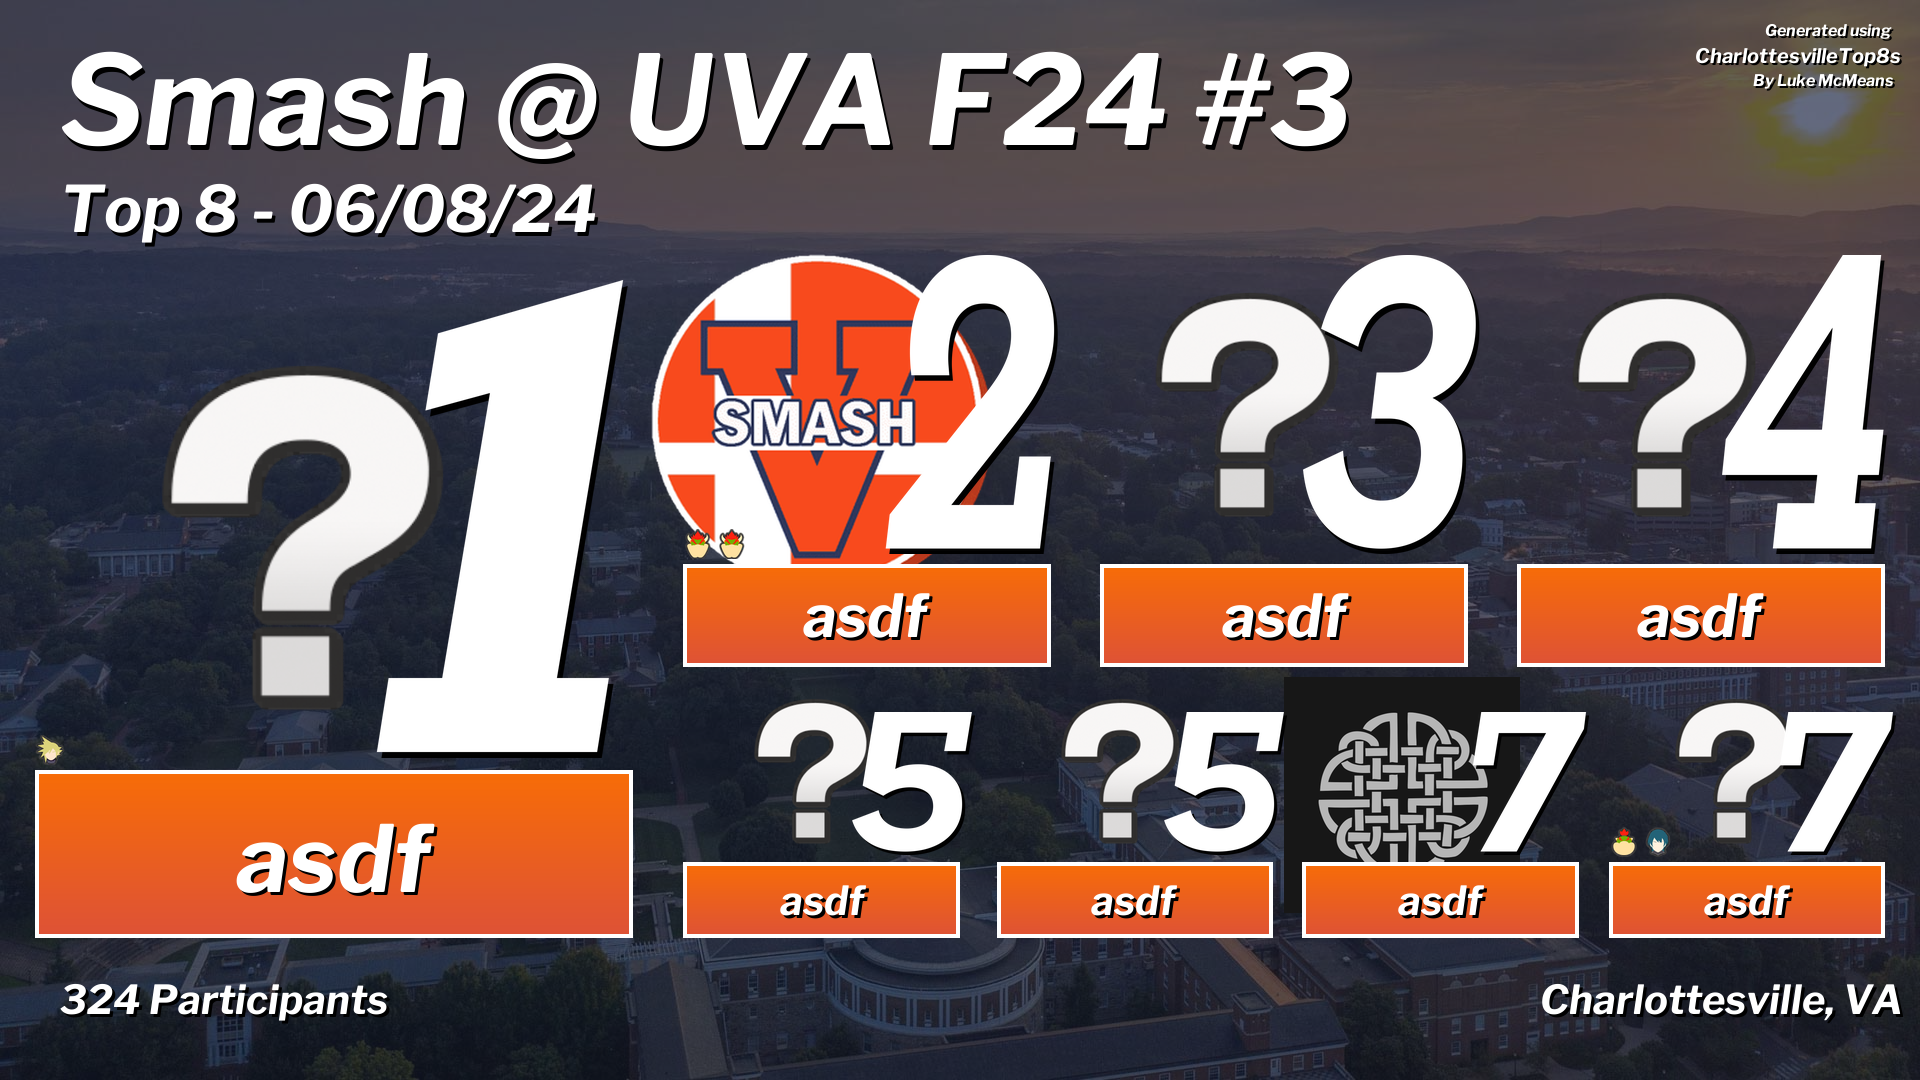
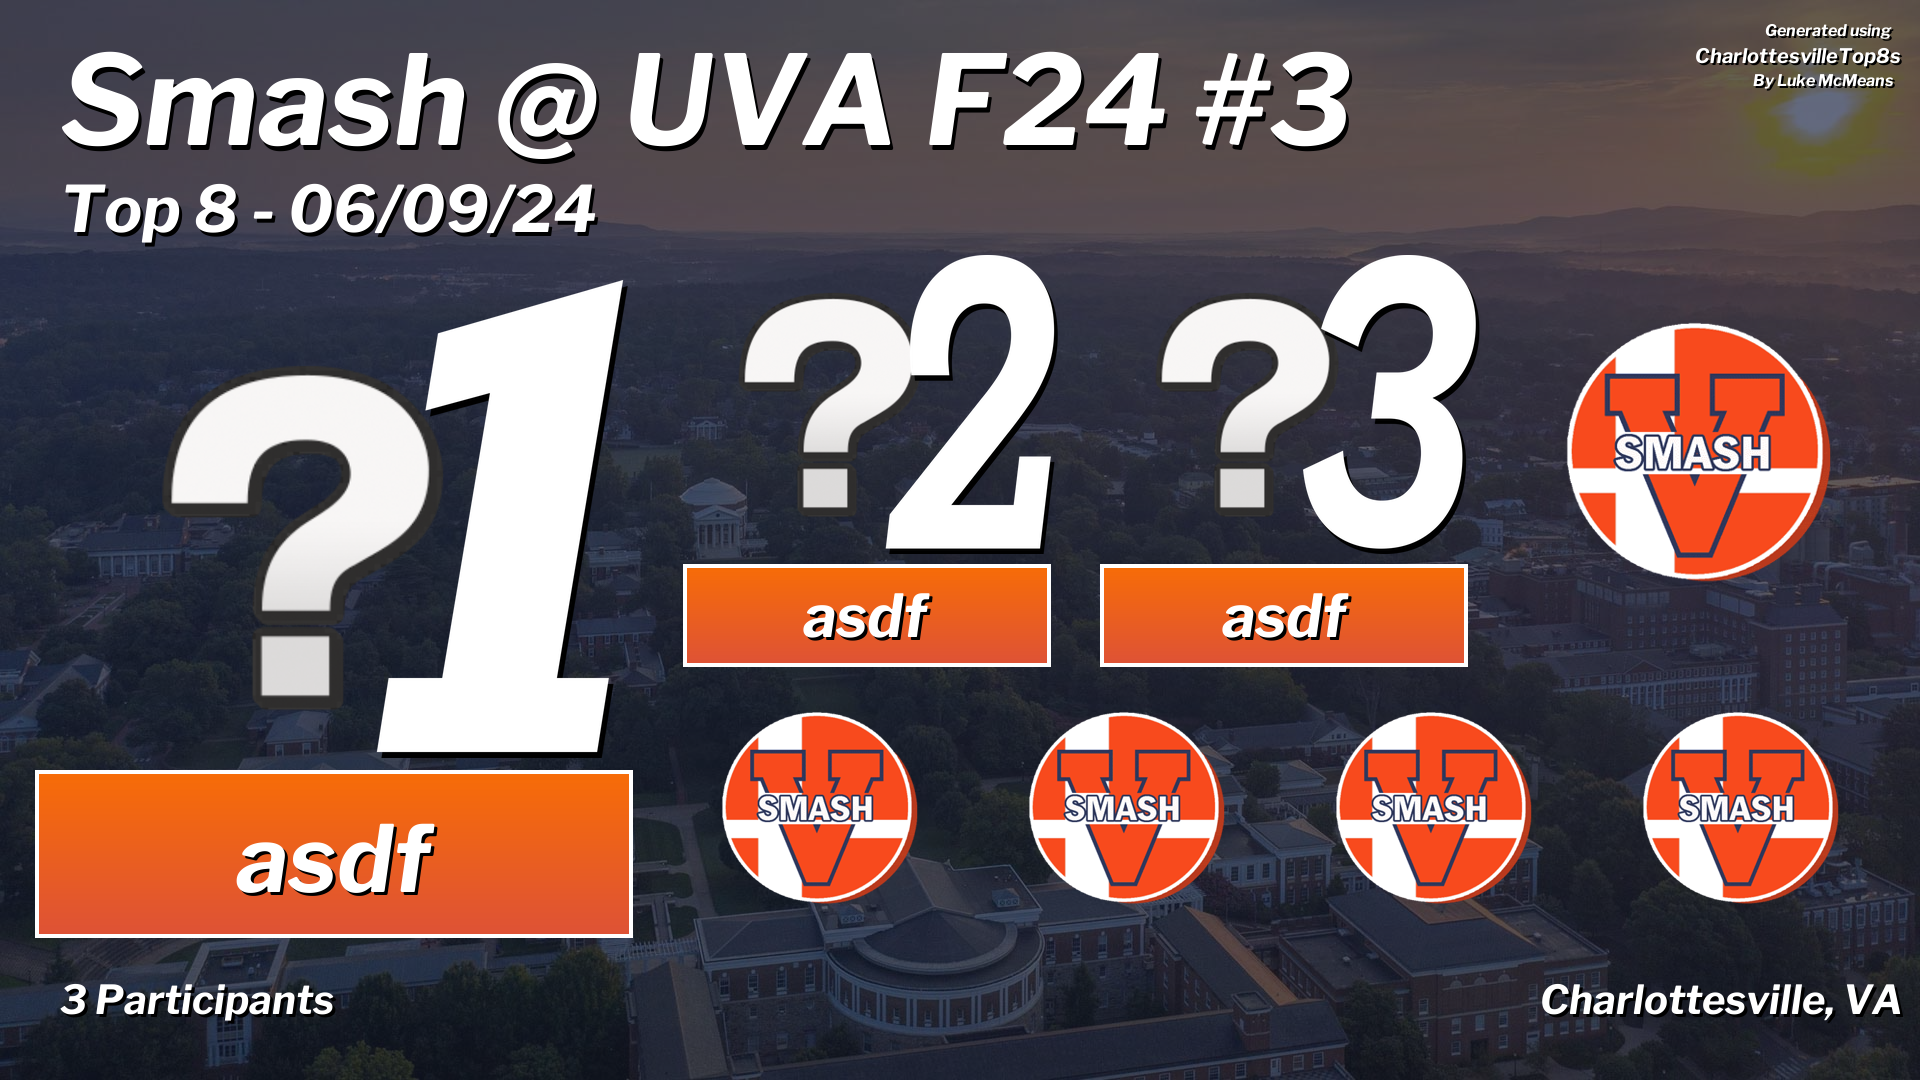
Added result to a new page, fixed error with particpants as decimals

diff --git a/templates/mysite/homepage.html b/templates/mysite/homepage.html
@@ -2,6 +2,9 @@
 <!DOCTYPE html>
 
 <link rel="stylesheet" href="{% static 'style.css' %}">
+<meta charset="UTF-8">
+<meta name="viewport" content="width=device-width, initial-scale=1.0">
+<title>Charlottesville Top8s</title>
 <link rel="icon" href="{% static 'siteicon.ico' %}" type="image/x-icon">
 
 <img style="max-width: 800px; width: 100%; height: auto;" src="{% static 'top8sLogo.png' %}">
@@ -32,7 +35,7 @@
             </div>
             <label>What # Smash@UVA is this (for the semester)?</label><br>
         </div>
-        <input type="number" name="event_number" label="Event Number" id="event_number" required>
+        <input type="number" name="event_number" label="Event Number" id="event_number" step=".5" required>
         <br>
         <label>Event Date:</label><br>
         <input type="date" name="event_date" id="event_date" required><br>
@@ -129,16 +132,11 @@
 </form>
 
 <div class="row" style="width: 90%; margin-left: 5%;">
-    {% if graphic %}
-        <h2>Result</h2>
-        <img style="width: 100%; height: auto;" src="{% static 'graphic.png' %}">    
-    {% else %}
-        <h2>Examples</h2>
-        <div style="display: flex;">
-            <img style="width: 50%; height: auto; margin-right: 10px;" src="{% static 'sampleUVA.png' %}">
-            <img style="width: 50%; height: auto;" src="{% static 'sampleCUT.png' %}">
-        </div>
-    {% endif %}
+    <h2>Examples</h2>
+    <div style="display: flex;">
+        <img style="width: 50%; height: auto; margin-right: 10px;" src="{% static 'sampleUVA.png' %}">
+        <img style="width: 50%; height: auto;" src="{% static 'sampleCUT.png' %}">
+    </div>
 </div>
 
 <footer class="text-muted">
@@ -148,7 +146,6 @@
     Inspired by <a href="https://www.top8er.com/" target="_blank">top8er.com</a> by @Riokaru and @Elenriqu3
     <br><br>
     Built and maintained using Django, Pillow, and Heroku. Images and assests from Super Smash Bros. Ultimate belong to Nintendo and Sora Ltd.
-    
 </footer>
 
 <script>
@@ -248,7 +245,9 @@
     }
 
     function checkUnderEight(){
-        const participants = Number(document.getElementById('participants').value)
+        const number = document.getElementById('participants')
+        number.value = parseInt(number.value)
+        const participants = Number(number.value)
         const warning = document.getElementById('under_eight')
         if(participants <= 0){
             message = `
@@ -265,7 +264,7 @@
         } else {
             message = ``;
         }
-        warning.innnerHTML = message;
+        warning.innerHTML = message;
         for(var i = 1; i < 9; i++){
             const playerText = document.getElementById(`player${i}_name`);
             const playerHandle = document.getElementById(`player${i}_handle`)

diff --git a/templates/mysite/result.html b/templates/mysite/result.html
@@ -1,0 +1,29 @@
+{% load static %}
+<!DOCTYPE html>
+
+<link rel="stylesheet" href="{% static 'style.css' %}">
+<meta charset="UTF-8">
+<meta name="viewport" content="width=device-width, initial-scale=1.0">
+<title>{{ tab_title }}</title>
+<link rel="icon" href="{% static 'siteicon.ico' %}" type="image/x-icon">
+
+<img style="max-width: 800px; width: 100%; height: auto;" src="{% static 'top8sLogo.png' %}">
+
+<div class="result"> 
+    <div style="width: 90%; margin-left: 5%;">
+        <h2>Result</h2>
+        <img style="width: 100%; height: auto;" src="{% static 'graphic.png' %}">
+        <br><br>
+        <a href="{% url 'homepage' %}" style="font-size: 20px;">Return to Homepage</a>
+        <br><br>
+    </div>
+</div>
+
+<footer class="text-muted">
+    <br>
+    Created by Luke McMeans (2024)
+    <br><br>
+    Inspired by <a href="https://www.top8er.com/" target="_blank">top8er.com</a> by @Riokaru and @Elenriqu3
+    <br><br>
+    Built and maintained using Django, Pillow, and Heroku. Images and assests from Super Smash Bros. Ultimate belong to Nintendo and Sora Ltd.
+</footer>

diff --git a/staticfiles/style.css b/staticfiles/style.css
@@ -1,6 +1,6 @@
 @import url('https://fonts.googleapis.com/css2?family=Zilla+Slab:ital,wght@0,300;0,400;0,500;0,600;0,700;1,300;1,400;1,500;1,600;1,700&display=swap');
 
-fieldset {
+fieldset, .result {
     flex-basis: calc(33.33% - 20px);
     padding: 30px;
     border-radius: 20px;

diff --git a/mysite/views.py b/mysite/views.py
@@ -105,12 +105,7 @@ def submit(request):
         constructSmashAtUVA(top_players, event)
     else:
         constructCUT(top_players, event)
-    context = {
-        "graphic": "success",
-        "indexes": range(1,9),
-        "characters": characters
-    }
-    return render(request, 'mysite/homepage.html', context)
+    return render(request, 'mysite/result.html', {'tab_title': title + " Graphic"})
 
 def constructSmashAtUVA(top_players, event):
     graphic = Image.new("RGBA", (1920,1080))
